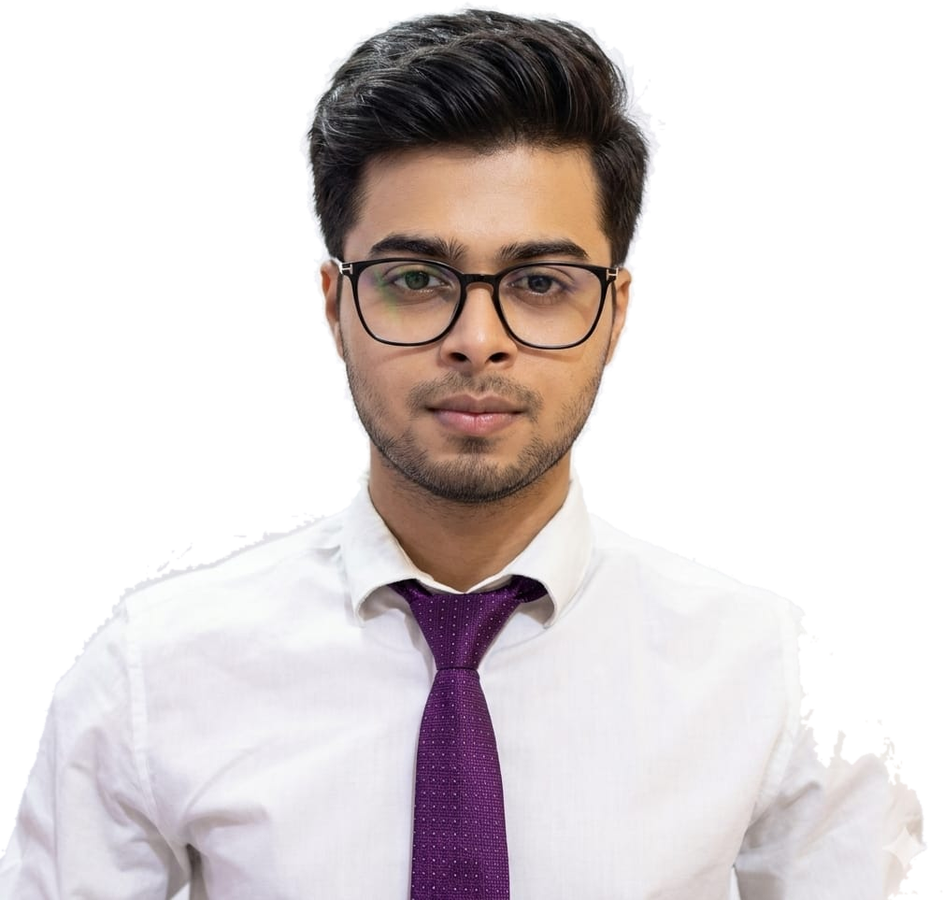
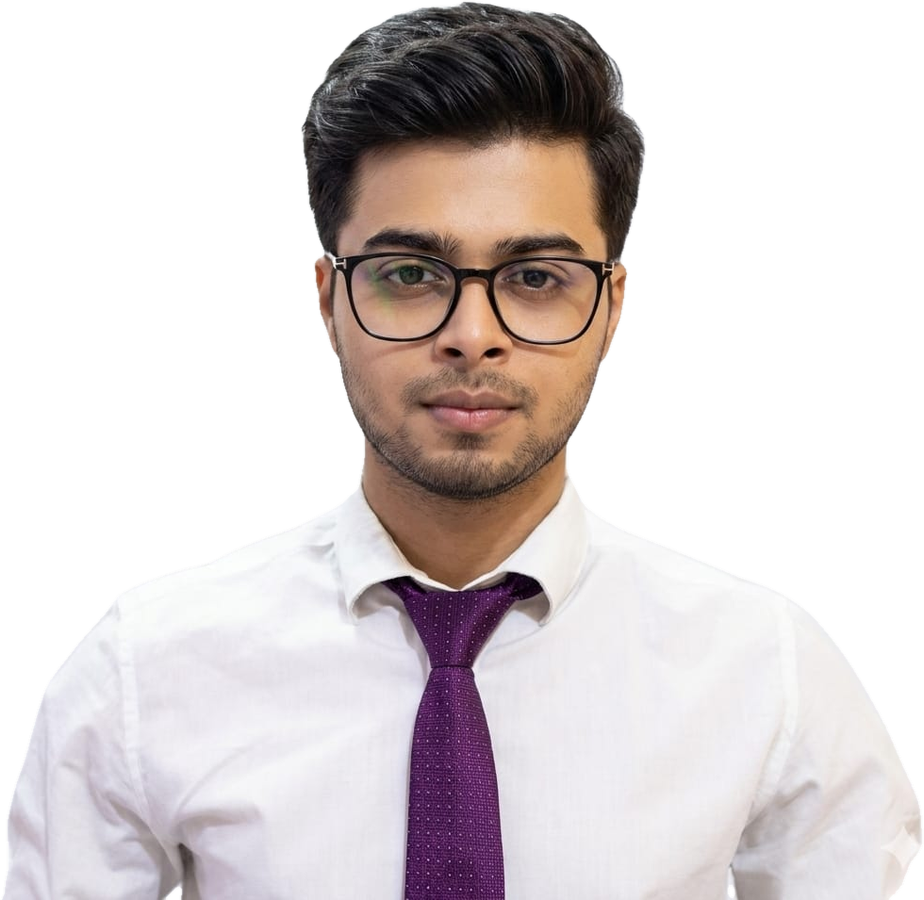
Replace headshot with AI-matted cutout and add OG preview image

diff --git a/index.html b/index.html
@@ -117,7 +117,7 @@
             <div class="portrait__glow" aria-hidden="true"></div>
             <picture>
               <source srcset="assets/img/headshot.webp" type="image/webp">
-              <img src="assets/img/headshot.png" alt="Portrait of Fardin Alam Alif" width="472" height="450" fetchpriority="high">
+              <img src="assets/img/headshot.png" alt="Portrait of Fardin Alam Alif" width="924" height="900" fetchpriority="high">
             </picture>
             <div class="float-card float-card--1" aria-hidden="true">
               <i class="devicon-dotnetcore-plain colored"></i><span>.NET Core</span>
